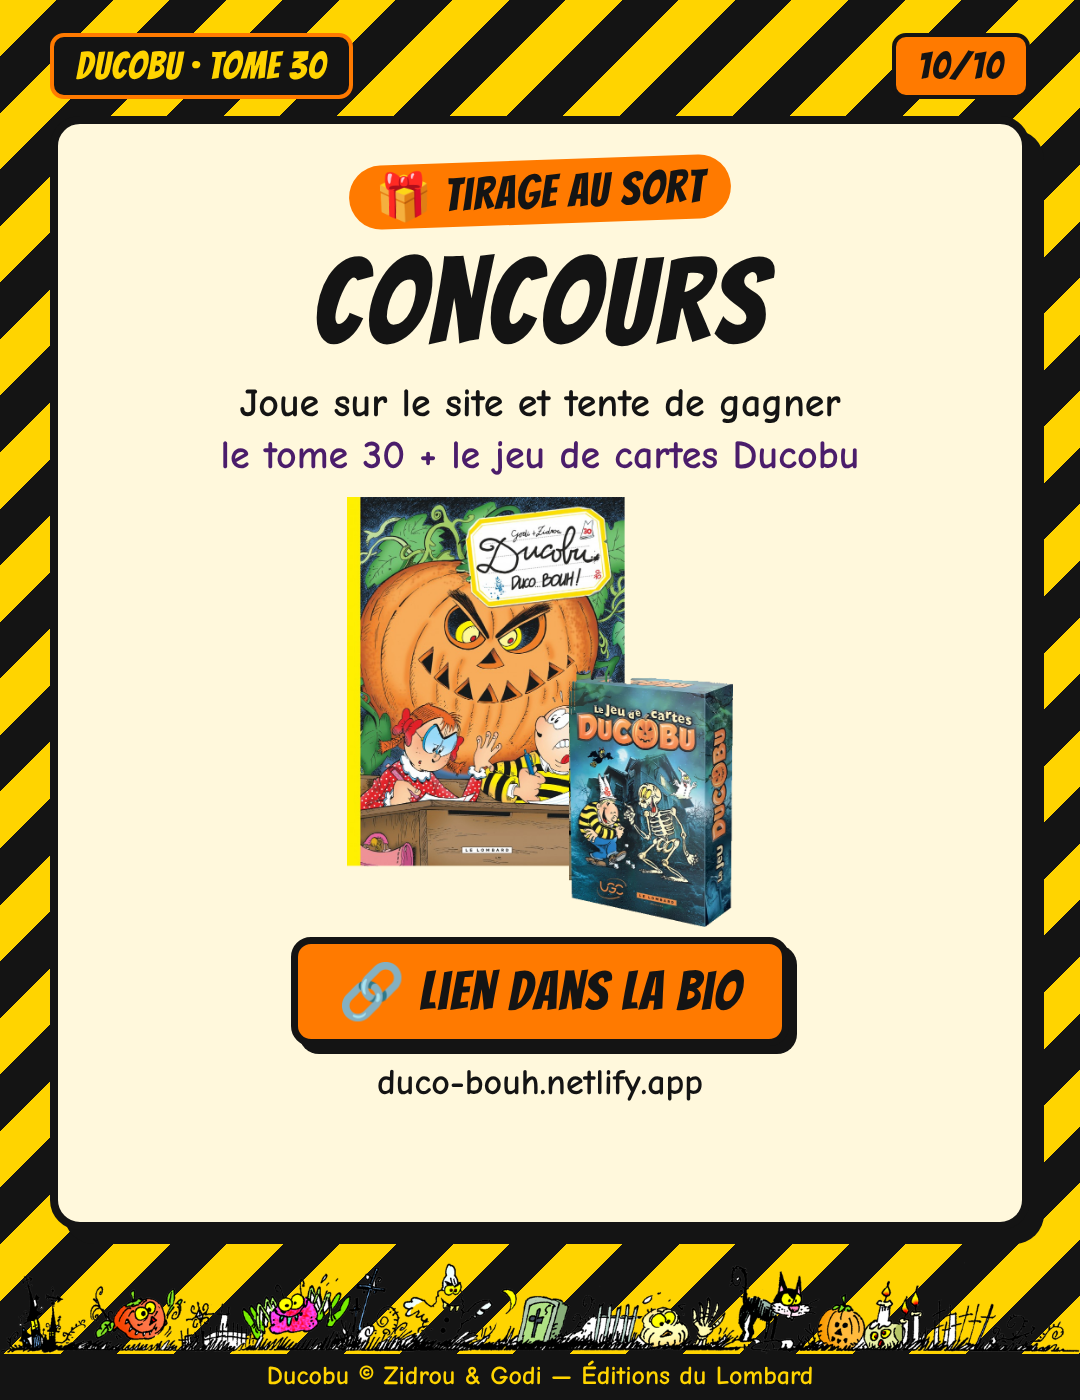
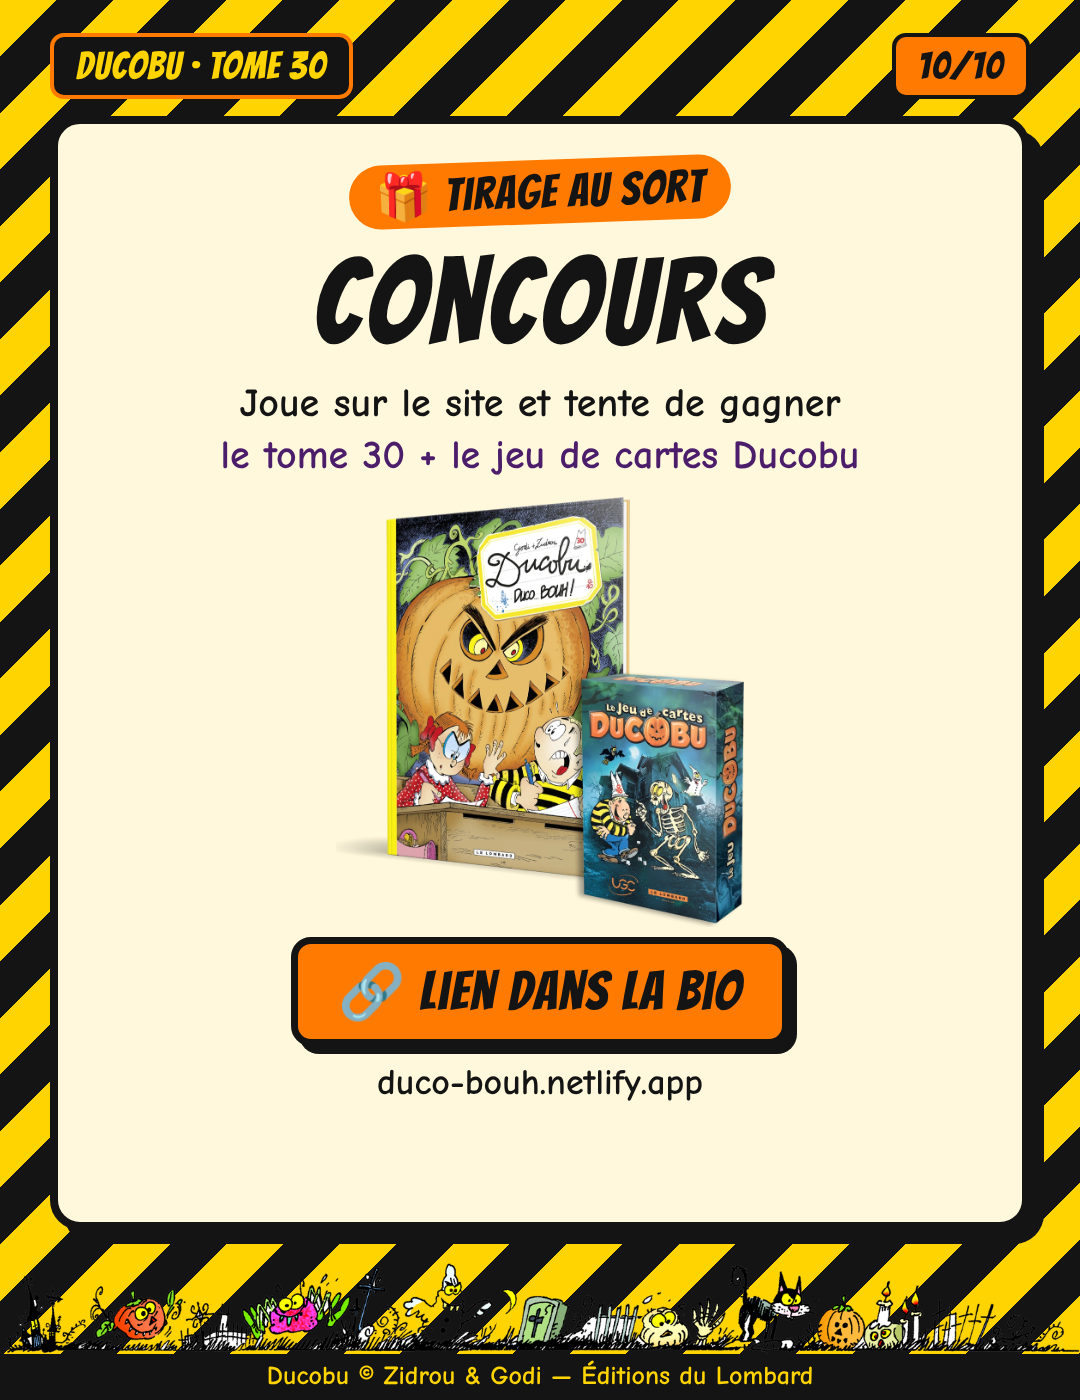
Restore original prize mockup (v3 filename) for site and carousel slide 10; keep new cover on homepage
Claude-Session: https://claude.ai/code/session_01DoP3j673bFwD32w75jBGz2

Changed region(s): [[0.3056, 0.3379, 0.7028, 0.6757]]

diff --git a/quiz-ducobu/index.html b/quiz-ducobu/index.html
@@ -10,7 +10,7 @@
 <link rel="icon" href="assets/favicon-64.png" type="image/png" sizes="64x64">
 <link rel="icon" href="favicon.ico" sizes="any">
 <link rel="apple-touch-icon" href="assets/apple-touch-icon.png">
-<link rel="stylesheet" href="style.css?v=202610082106">
+<link rel="stylesheet" href="style.css?v=202610082109">
 </head>
 <body>
 <header class="top">
@@ -77,7 +77,7 @@
       <p class="kicker">🎁 Tirage au sort</p>
       <h2>Gagne le tome 30 et le jeu de cartes Ducobu&nbsp;!</h2>
       <div class="prizes">
-        <img src="assets/lot-tome30-jeu-v2.png" alt="Le tome 30 de Ducobu, Duco… Bouh !, et la boîte du jeu de cartes Ducobu">
+        <img src="assets/lot-tome30-jeu-v3.png" alt="Le tome 30 de Ducobu, Duco… Bouh !, et la boîte du jeu de cartes Ducobu">
       </div>
       <form id="draw-form" novalidate>
         <p class="draw-intro">Inscris-toi à la newsletter du Lombard pour participer au tirage au sort.</p>
@@ -112,6 +112,6 @@
 </footer>
 </div>
 
-<script src="quiz.js?v=202610082106"></script>
+<script src="quiz.js?v=202610082109"></script>
 </body>
 </html>

diff --git a/carrousel-instagram/out/carrousel-10-slides/html/slide-10.html b/carrousel-instagram/out/carrousel-10-slides/html/slide-10.html
@@ -39,7 +39,7 @@ h2{font-size:64px;line-height:1.08}
     <span class="k">🎁 Tirage au sort</span>
     <h2 style="margin:14px 0 4px;font-size:120px">Concours</h2>
     <p class="sub" style="font-size:40px">Joue sur le site et tente de gagner<br><span style="color:var(--purple)">le tome&nbsp;30 + le jeu de cartes Ducobu</span></p>
-    <img src="../../../../quiz-ducobu/assets/lot-tome30-jeu-v2.png" style="height:430px;margin:10px 0" alt="">
+    <img src="../../../../quiz-ducobu/assets/lot-tome30-jeu-v3.png" style="height:430px;margin:10px 0" alt="">
     <span class="btn" style="font-size:54px">🔗 Lien dans la bio</span>
     <p class="sub" style="font-size:36px;margin-top:14px">duco-bouh.netlify.app</p>
   </div>

diff --git a/carrousel-instagram/out/carrousel-4-slides/html/slide-03.html b/carrousel-instagram/out/carrousel-4-slides/html/slide-03.html
@@ -38,7 +38,7 @@ h2{font-size:64px;line-height:1.08}
 <div class="card">
     <span class="k">🎁 À gagner</span>
     <h2 style="font-size:84px;margin:18px 0 0">Le tome&nbsp;30<br>+ le jeu de cartes</h2>
-    <img src="../../../../quiz-ducobu/assets/lot-tome30-jeu-v2.png" style="height:600px;margin:12px 0" alt="">
+    <img src="../../../../quiz-ducobu/assets/lot-tome30-jeu-v3.png" style="height:600px;margin:12px 0" alt="">
     <p class="sub" style="font-size:40px">Tirage au sort pour les joueurs<br>inscrits à la newsletter du Lombard</p>
     <p class="sub" style="font-size:34px;opacity:.75">En librairie le 9 octobre</p>
   </div>
